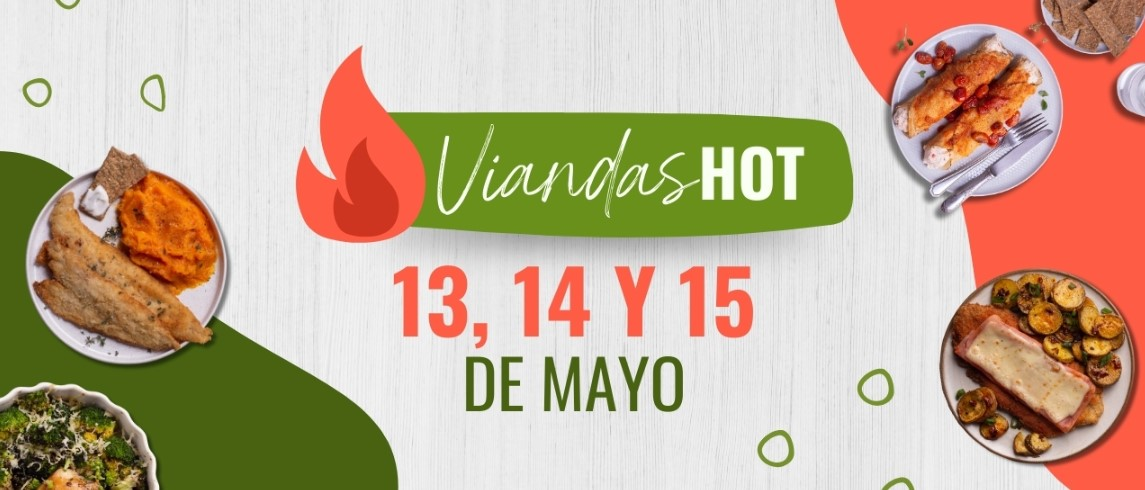
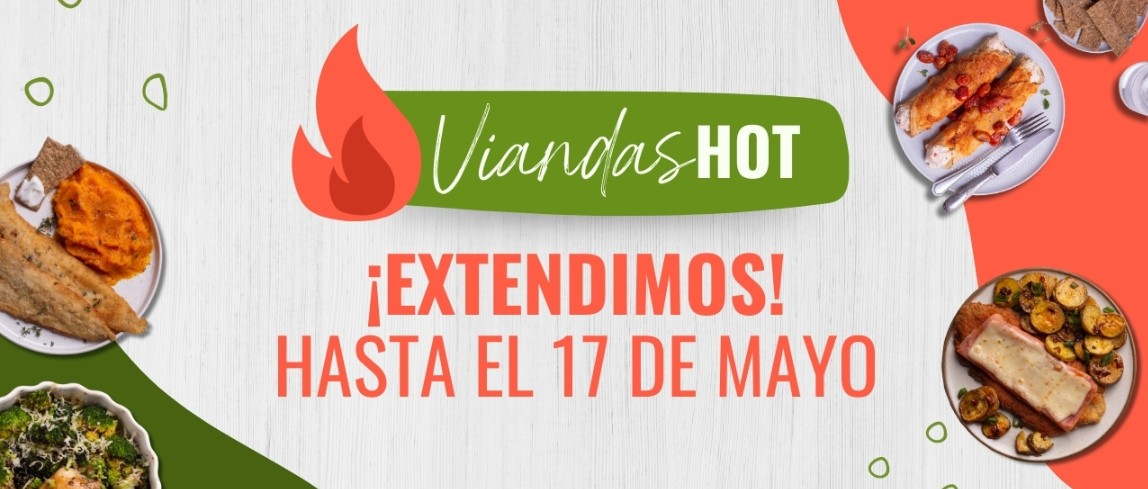
Hot sale extension

diff --git a/components/navbar/ShopNavbar.tsx b/components/navbar/ShopNavbar.tsx
@@ -6,7 +6,6 @@ import { CartContext, UIContext } from '../../context';
 
 import { IoIosArrowRoundBack } from 'react-icons/io';
 import { HiOutlineShoppingBag } from 'react-icons/hi';
-import { ImFire } from 'react-icons/im';
 
 import styles from '../../styles/ShopNavbar.module.css';
 
@@ -75,22 +74,6 @@ export const ShopNavbar: FC<Props> = ({ pageTitle, menuPage, backCart }) => {
                   Aprovechá un <strong>10% off en tu primera compra</strong> con el cupón de descuento
                   <strong> bienvenido10</strong>
                </p> */}
-               {/* <p className={styles.text}>
-                  <strong className={styles.viandashot}>
-                     <img
-                        src='/icon/hot-sale-fuego.png'
-                        alt='Hot Sale Fuego'
-                        className={styles.hotSaleFire}
-                     />
-                     VIANDAS HOT
-                     <img
-                        src='/icon/hot-sale-fuego.png'
-                        alt='Hot Sale Fuego'
-                        className={styles.hotSaleFire}
-                     />
-                  </strong>
-                  ¡Quedan <strong>{showTime}</strong> para <strong>APROVECHAR!</strong>
-               </p> */}
                <div className={styles.promoContainer}>
                   <div className={styles.top}>
                      <img
@@ -154,7 +137,7 @@ export const ShopNavbar: FC<Props> = ({ pageTitle, menuPage, backCart }) => {
 
 const calculateTimeLeft = (): TimeLeft => {
    const now = new Date();
-   const endTime = new Date('2024-05-15T23:59:59');
+   const endTime = new Date('2024-05-17T23:59:59');
    const difference = endTime.getTime() - now.getTime();
 
    let timeLeft: TimeLeft = { hours: 0, minutes: 0, seconds: 0 };

diff --git a/components/ui/Footer.tsx b/components/ui/Footer.tsx
@@ -40,7 +40,7 @@ export const Footer = () => {
                </div>
 
                <div className={styles.columnList}>
-                  <h3 className={styles.subTitle}>Platos más vendidos</h3>
+                  <h3 className={styles.subTitle}>Platos más elegidos</h3>
                   <div className={styles.list}>
                      <Link href={'/plato/colita-de-cuadril-con-papas-al-horno'} prefetch={false}>
                         <a className={`${styles.linkItem} ${styles.productItem}`}>

diff --git a/styles/CrossSelling.module.css b/styles/CrossSelling.module.css
@@ -102,6 +102,7 @@
 
 .product > .info > .priceContainer {
    display: flex;
+   flex-direction: column;
    align-items: center;
    justify-content: center;
    width: 100%;
